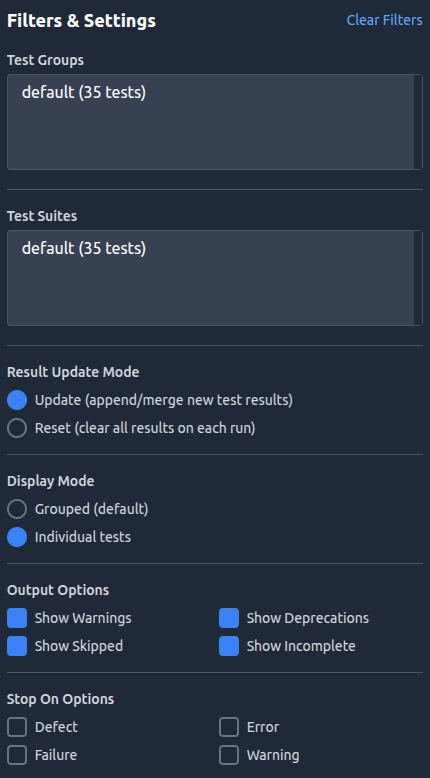
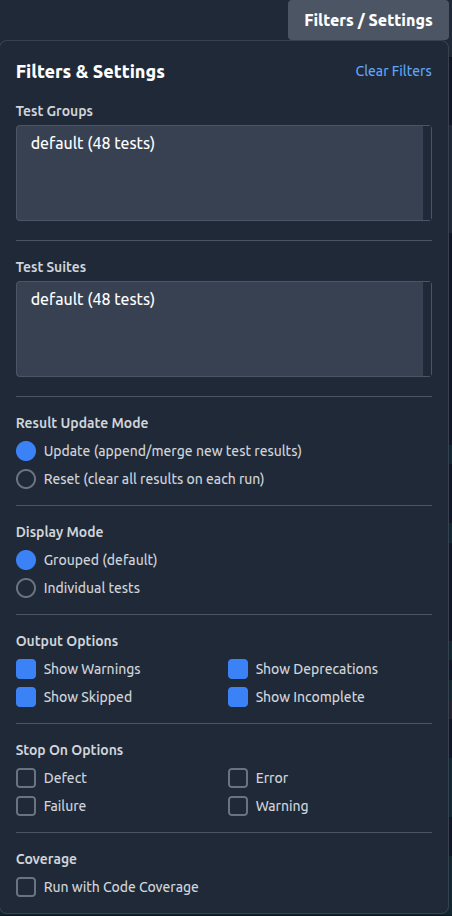
Add coverage toggle and persistence in UI
- Integrated a "Run with Code Coverage" toggle in the UI.
- Updated state management in `store.js` to include coverage settings with proper persistence in `localStorage`.
- Enhanced the HTML structure to better organize and display the coverage option.
- Added coverage-related screenshots to the repository.

Changed region(s): [[0.0, 0.0, 0.9977, 0.9871], [0.4837, 0.7095, 0.8767, 0.8946], [0.4837, 0.9254, 0.6953, 0.9871]]

diff --git a/public/index.html b/public/index.html
@@ -135,6 +135,16 @@
                             </label>
                         </div>
                     </div>
+
+                    <div class="form-group">
+                        <label class="block text-sm font-medium text-gray-300 mb-2">Coverage</label>
+                        <div class="grid grid-cols-2 gap-2">
+                            <label class="flex items-center text-sm">
+                                <input type="checkbox" v-model="store.state.coverage" class="mr-2">
+                                Run with Code Coverage
+                            </label>
+                        </div>
+                    </div>
                 </div>
             </div>
 
@@ -150,11 +160,6 @@
                     class="bg-red-600 hover:bg-red-700 text-white font-bold py-2 px-4 rounded transition duration-150 ease-in-out disabled:bg-gray-500">
                 Run Failed
             </button>
-
-            <label class="flex items-center text-sm text-white ml-4">
-                <input type="checkbox" v-model="store.state.coverage" class="mr-2">
-                Run with Code Coverage
-            </label>
 
             <button @click="app.togglePlayStop()"
                     :title="isAnyTestRunning ? 'Stop all test runs' : 'Run all tests'"
@@ -588,7 +593,7 @@
             });
 
             // Watch for changes in filters and options, and save them to localStorage
-            watch(() => [app.store.state.options, app.store.state.selectedSuites, app.store.state.selectedGroups], (newState, oldState) => {
+            watch(() => [app.store.state.options, app.store.state.selectedSuites, app.store.state.selectedGroups, app.store.state.coverage], (newState, oldState) => {
                 app.store.saveState();
             }, { deep: true });
 

diff --git a/public/js/store.js b/public/js/store.js
@@ -78,6 +78,9 @@ export class Store {
                 if (Array.isArray(parsedState.selectedGroups)) {
                     this.state.selectedGroups = parsedState.selectedGroups;
                 }
+                if(parsedState.coverage) {
+                    this.state.coverage = parsedState.coverage;
+                }
             } catch (e) {
                 console.error('Failed to load state from localStorage', e);
                 localStorage.removeItem(STORAGE_KEY);
@@ -93,6 +96,7 @@ export class Store {
             options: this.state.options,
             selectedSuites: this.state.selectedSuites,
             selectedGroups: this.state.selectedGroups,
+            coverage: this.state.coverage,
         };
         localStorage.setItem(STORAGE_KEY, JSON.stringify(stateToSave));
     }
@@ -549,10 +553,9 @@ export class Store {
     clearFilters() {
         this.state.selectedSuites = [];
         this.state.selectedGroups = [];
+        this.state.coverage = false;
         this.state.options = { ...Store.defaultOptions };
     }
-
-
 
     setActiveTab(tab) {
         this.state.activeTab = tab;
